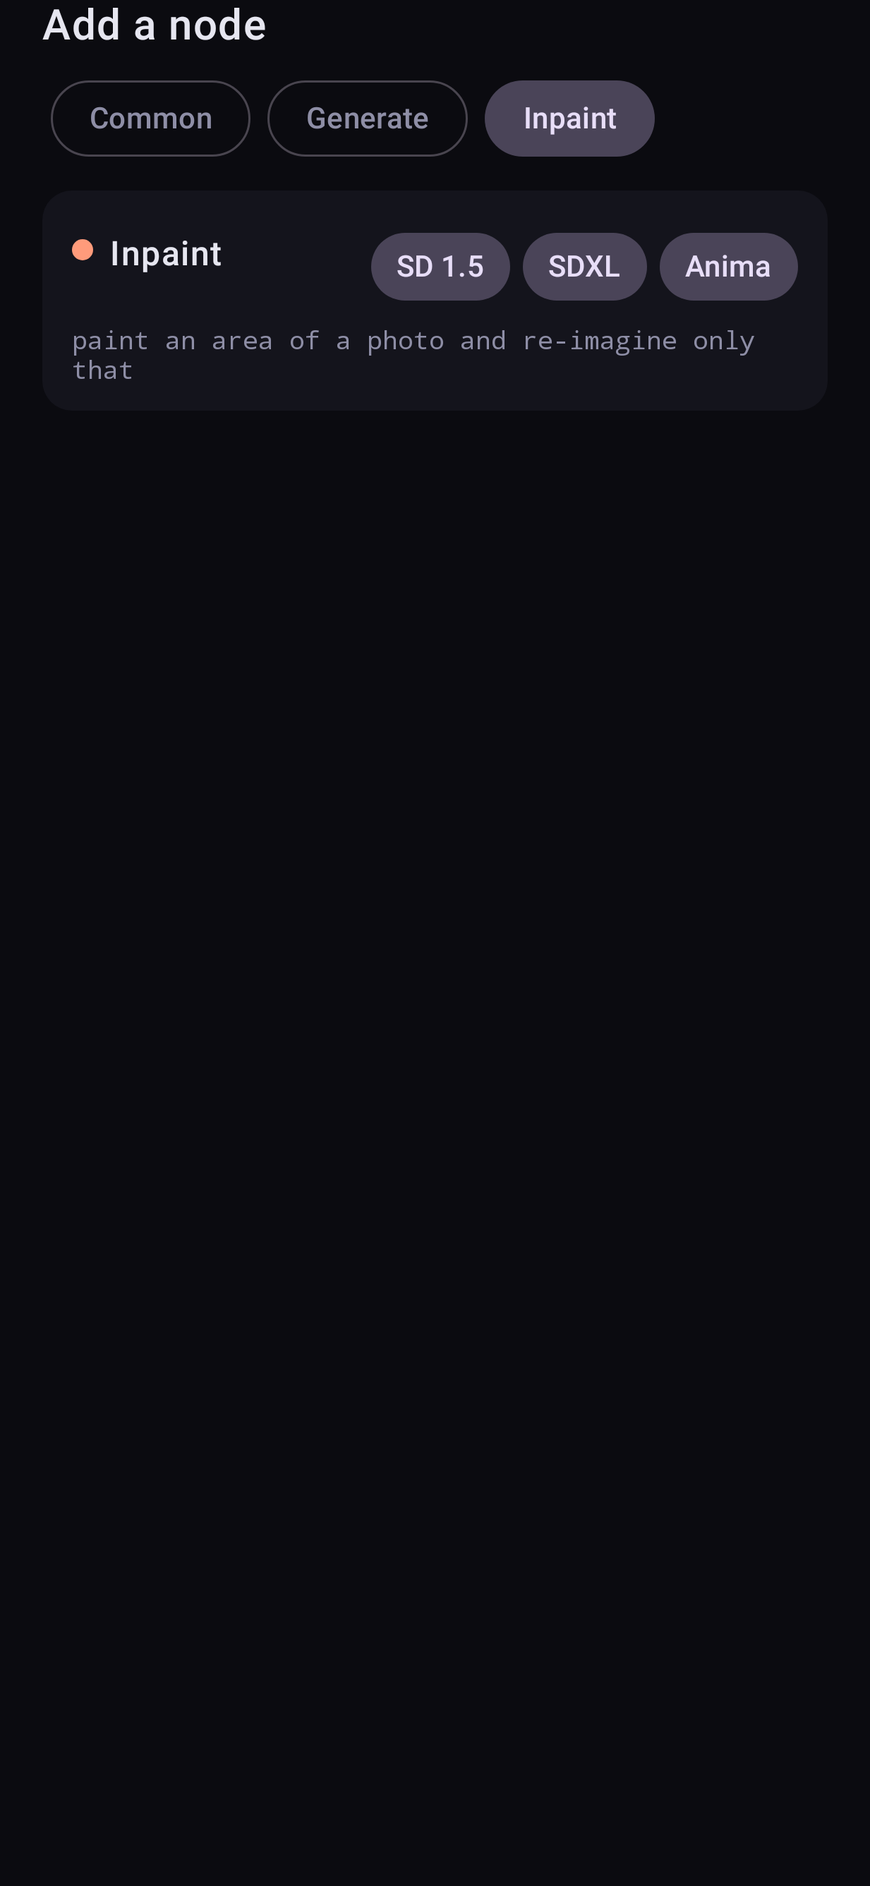
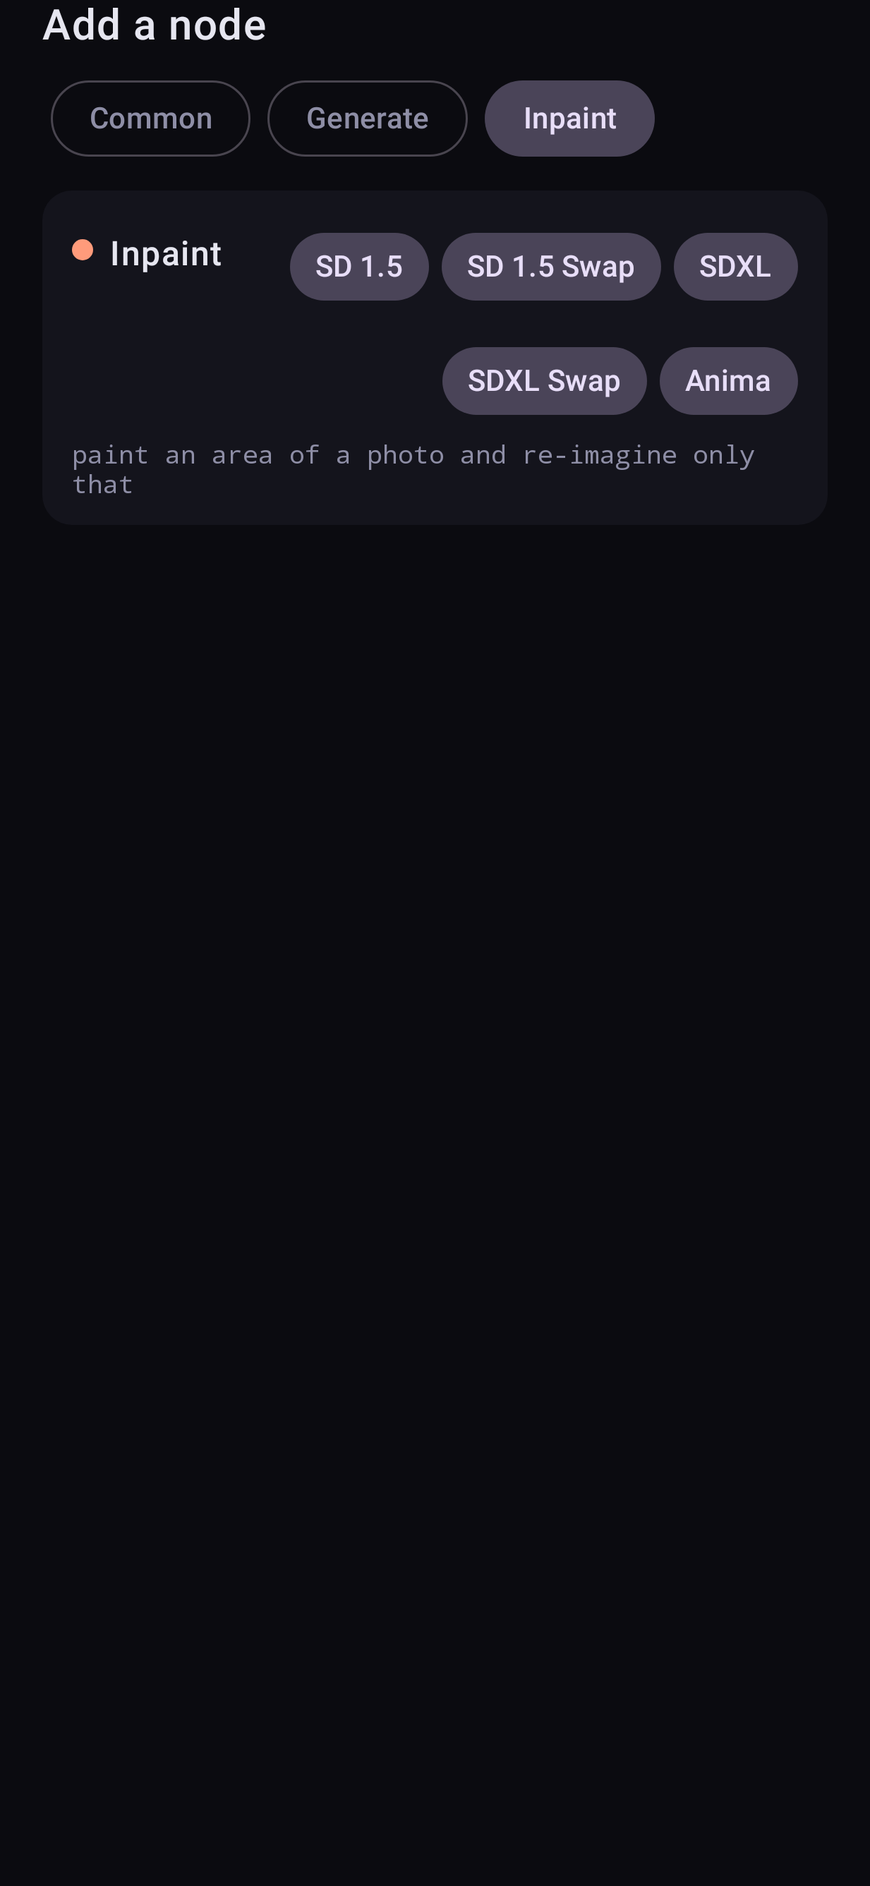
1.6.076: SDXL Swap — LoRA per render, and the template's quantized IO
npuforge 1.0.10's SDXL Swap template (docs there: SDXL-SWAP-TEMPLATE.md)
on the SDXL (231 masked) path.

Backend, patch 018: the template's IO is u16-quantized (timestamp INT_32)
where Mr.J's SDXL UNet is float32, and the step memcpy'd float32 into u16
client buffers. writeNamedInput is dtype-aware (float32 copied, INT_32
cast, u16 quantized, sizes checked) and the output is dequantized unless
float32. A graph with more than six inputs gets 015's writeExtraInputs,
now bound wholly by name with the six standard inputs skipped: LoRA from
lora_dir, ControlNet / IP-Adapter inputs zero (the identity).
PipelineSdxl::beginDenoise sets lora_dir / lora_strength when the UNet has
lora_S and refuses lora_dir otherwise.

App: Family.SDXL_SWAP (an SDXL folder with lora_targets.json), its own
sdxlswap.sample / sdxlswap.inpaint with SDXL's widgets plus the LoRA list,
SDXL's launch type, 1024², --lowram switch and spill-fill. The LoRA pack
reuses SwapInputs (700 targets from the model's own file); TemplateLora
also reads SGM-named keys (input_blocks.{3b+a+1}.1 / output_blocks.{3b+a}.1
/ middle_block.1, one formula for SD 1.5 and SDXL). ControlNet and
IP-Adapter on SDXL Swap are not offered yet.

Tests: SGM vs diffusers naming pack byte-identically; SDXL Swap detection;
palette and sampler counts; palette goldens re-recorded (guide copies too).
Suite: 1083 tests, the 14 DiT import tests fail on disk space only
(C: below their ~11.4 GB need). Not yet run on the phone.
[…]

Changed region(s): [[0.339, 0.1242, 0.9246, 0.2484], [0.4315, 0.2174, 0.4623, 0.2484], [0.2774, 0.2174, 0.3082, 0.2484]]

diff --git a/app/src/main/java/com/abrah/nightmare/CustomModels.kt b/app/src/main/java/com/abrah/nightmare/CustomModels.kt
@@ -295,14 +295,19 @@ object CustomModels {
         // the claim and the requirement at once.
         val spec = customSpec(dir, Config.read(dir), swapIf(dir, found.single()))
         // ⭐ npuforge SDXL: 3x77 tokens (`backend-patches/005`). Read, never assumed.
-        val long = spec.family == Family.SDXL && runCatching {
+        val long = (spec.family == Family.SDXL || spec.family == Family.SDXL_SWAP) && runCatching {
             File(dir, LONG_CONTEXT_FILE).readText().contains(LONG_CONTEXT_231)
         }.getOrDefault(false)
         return if (long) spec.copy(promptTokens = 231) else spec
     }
 
-    private fun swapIf(dir: File, family: Family): Family =
-        if (family == Family.SD15 && File(dir, TemplateLora.TARGETS_FILE).isFile) Family.SD15_SWAP else family
+    private fun swapIf(dir: File, family: Family): Family = when {
+        !File(dir, TemplateLora.TARGETS_FILE).isFile -> family
+        family == Family.SD15 -> Family.SD15_SWAP
+        // ⭐ npuforge 1.0.10+ writes it beside an SDXL Swap UNet that kept a feature.
+        family == Family.SDXL -> Family.SDXL_SWAP
+        else -> family
+    }
 
     /**
      * ⚠ Every family-dependent field comes from [ModelCatalog]'s own constants,
@@ -335,7 +340,7 @@ object CustomModels {
     private fun familyDefaults(family: Family): Defaults = when (family) {
         // The backend's own defaults — neutral, and what every SD archive has
         // always been imported with.
-        Family.SD15, Family.SD15_SWAP, Family.SDXL -> Defaults(
+        Family.SD15, Family.SD15_SWAP, Family.SDXL, Family.SDXL_SWAP -> Defaults(
             ModelCatalog.DEFAULT_SCHEDULER, ModelCatalog.DEFAULT_STEPS, ModelCatalog.DEFAULT_CFG,
         )
         // ⚠ Every published Anima checkpoint is turbo (`euler`, 10, cfg 1 in
@@ -389,6 +394,8 @@ object CustomModels {
             // inputs by probing the UNet at load, so nothing at launch says "Swap".
             Family.SD15_SWAP -> ModelCatalog.SD15_NPU
             Family.SDXL -> ModelCatalog.SDXL_NPU
+            // ⭐ Same `--type` as SDXL: patch 018 probes the UNet for `lora_S` at load.
+            Family.SDXL_SWAP -> ModelCatalog.SDXL_NPU
             Family.ANIMA -> ModelCatalog.ANIMA_NPU
             // ⭐ Detected since 2026-09-21 — [importDit] writes [FLUX2_MARK]
             // and [ZIMAGE_MARK], so these two are reached by a real import.
@@ -405,7 +412,7 @@ object CustomModels {
             when (family) {
                 // ⚠ 512² for Swap and nothing else: the template ships no patches.
                 Family.SD15, Family.SD15_SWAP -> ModelCatalog.SD15_NPU_RES
-                Family.SDXL -> ModelCatalog.SDXL_NPU_RES
+                Family.SDXL, Family.SDXL_SWAP -> ModelCatalog.SDXL_NPU_RES
                 Family.ANIMA -> ModelCatalog.ANIMA_NPU_RES
                 Family.FLUX2, Family.ZIMAGE, Family.QWEN21, Family.KREA2 -> ModelCatalog.DIT_RES
             },
@@ -414,6 +421,7 @@ object CustomModels {
             Family.SD15 -> ModelCatalog.SD15_REQUIRED
             Family.SD15_SWAP -> ModelCatalog.SD15_SWAP_REQUIRED
             Family.SDXL -> ModelCatalog.SDXL_REQUIRED
+            Family.SDXL_SWAP -> ModelCatalog.SDXL_SWAP_REQUIRED
             Family.ANIMA -> ModelCatalog.ANIMA_REQUIRED
             // ⚠ The weights by the name actually on disk — a `.gguf` import
             // has no `dit.safetensors`, and would read as incomplete forever.
@@ -435,7 +443,7 @@ object CustomModels {
             Family.SD15, Family.SD15_SWAP -> false
             // ⚠ The 9B is `lowram` (te=disk) like its built-in; 4B is not.
             Family.FLUX2 -> klein9b
-            Family.SDXL, Family.ANIMA, Family.ZIMAGE -> true
+            Family.SDXL, Family.SDXL_SWAP, Family.ANIMA, Family.ZIMAGE -> true
             // ⚠ The backend runs Qwen `all=disk` whatever this says (013).
             Family.QWEN21 -> false
             // ⚠ Same as Qwen: the backend runs Krea 2 `all=disk` (014).

diff --git a/app/src/main/java/com/abrah/nightmare/Fused.kt b/app/src/main/java/com/abrah/nightmare/Fused.kt
@@ -498,6 +498,10 @@ class SdSampler(
          */
         val SD15_SWAP_INPAINT = SdSampler("sd15swap.inpaint", Family.SD15_SWAP, inpaint = true)
         val SDXL = SdSampler("sdxl.sample", Family.SDXL, inpaint = false)
+        /** ⭐ SDXL Swap — LoRA per render (ControlNet / IP-Adapter inputs stay zero, [Family.SDXL_SWAP]). */
+        val SDXL_SWAP = SdSampler("sdxlswap.sample", Family.SDXL_SWAP, inpaint = false)
+        /** ⭐ SDXL Swap inpaint — SDXL's own route: masked img2img with the latent blend, LoRA kept. */
+        val SDXL_SWAP_INPAINT = SdSampler("sdxlswap.inpaint", Family.SDXL_SWAP, inpaint = true)
         val SD15_INPAINT = SdSampler("sd15.inpaint", Family.SD15, inpaint = true)
         val SDXL_INPAINT = SdSampler("sdxl.inpaint", Family.SDXL, inpaint = true)
         val ANIMA = SdSampler("anima.sample", Family.ANIMA, inpaint = false)
@@ -544,8 +548,8 @@ class SdSampler(
          * until the engine's behaviour is understood. `notes/PROGRESS.md`.
          */
         val ALL = listOf(
-            SD15, SD15_SWAP, SDXL, ANIMA, FLUX2, ZIMAGE, QWEN21, KREA2,
-            SD15_INPAINT, SD15_SWAP_INPAINT, SDXL_INPAINT, ANIMA_INPAINT,
+            SD15, SD15_SWAP, SDXL, SDXL_SWAP, ANIMA, FLUX2, ZIMAGE, QWEN21, KREA2,
+            SD15_INPAINT, SD15_SWAP_INPAINT, SDXL_INPAINT, SDXL_SWAP_INPAINT, ANIMA_INPAINT,
         )
 
         /**
@@ -645,6 +649,8 @@ class SdSampler(
     override val widgets get() = when {
         family.dit -> ditWidgets()
         family == Family.SD15_SWAP -> baseWidgets() + lorasWidget() + swapWidgets()
+        // ⭐ LoRA only: SDXL ControlNet and IP-Adapter models do not exist on the phone yet.
+        family == Family.SDXL_SWAP -> baseWidgets() + lorasWidget()
         else -> baseWidgets()
     }.let { ws ->
         if (!inpaint) ws else {
@@ -1024,7 +1030,11 @@ class SdSampler(
             ?.takeIf { ModelCatalog.aspectTarget(it, Res(w, h)) != null }
         // ⭐⭐ SD 1.5 Swap: the LoRA pack and the ControlNet hint, once per run and
         // before any backend call — a missing picture should stop the run here.
-        val template = if (family == Family.SD15_SWAP) swapInputs(ctx, node, p, inputs) else null
+        val template = when (family) {
+            Family.SD15_SWAP -> swapInputs(ctx, node, p, inputs)
+            Family.SDXL_SWAP -> sdxlSwapInputs(ctx, node, p)
+            else -> null
+        }
 
         // ⚠ First, because it is the cheapest thing that can fail: a backend
         // that is not up says so here rather than after a 200 ms VAE encode.
@@ -1523,6 +1533,23 @@ class SdSampler(
      * ([SwapInputs.Frame]) so the hint lines up with the base — the user's call,
      * 2026-09-29. With ControlNet at `none` none of this is read.
      */
+    /**
+     * ⭐ SDXL Swap's per-render input: the LoRA pack only ([SwapInputs.resolve] with no
+     * ControlNet and no reference). The pack follows the model's own `lora_targets.json`
+     * (700 targets) and is cached per LoRA set like SD 1.5 Swap's ([SwapInputs.packDir]).
+     */
+    private suspend fun sdxlSwapInputs(ctx: NodeCtx, node: Node, p: Map<String, String>): Ops.TemplateInputs {
+        if (LoraSpec.parse(p[LORAS]).isEmpty()) return Ops.TemplateInputs()
+        val android = ctx.android
+            ?: throw IllegalStateException("SDXL Swap needs an Android context on this host")
+        val spec = ModelCatalog.byId(p["model"].orEmpty())
+            ?: throw IllegalStateException("node \"${node.id}\": model \"${p["model"]}\" is not installed")
+        val loras = lorasFor(ctx, p[LORAS])
+        return kotlinx.coroutines.withContext(kotlinx.coroutines.Dispatchers.Default) {
+            SwapInputs.resolve(android, spec, loras, SwapInputs.NONE, 1.0, null, null, say = ctx.say)
+        }
+    }
+
     private suspend fun swapInputs(
         ctx: NodeCtx,
         node: Node,

diff --git a/app/src/main/java/com/abrah/nightmare/TemplateLora.kt b/app/src/main/java/com/abrah/nightmare/TemplateLora.kt
@@ -108,7 +108,7 @@ object TemplateLora {
             val dout = uShape[0].toInt()
             require(din == t.din && dout == t.dout && uShape[1].toInt() == r) {
                 "${t.name}: LoRA shape [$r, $din] / [$dout, ${uShape[1]}] does not fit the " +
-                    "template's [${t.din} -> ${t.dout}] -- not an SD 1.5 LoRA?"
+                    "template's [${t.din} -> ${t.dout}] -- a LoRA for another model family?"
             }
             loraRank = maxOf(loraRank, r)
             var d = st.floats(down)            // [rk, din]
@@ -177,7 +177,7 @@ object TemplateLora {
                     val din = dShape.drop(1).fold(1L) { a, b -> a * b }.toInt()
                     require(din == t.din && uShape[0].toInt() == t.dout && uShape[1].toInt() == r) {
                         "${t.name}: ${loras[li].first.name} does not fit the template's " +
-                            "[${t.din} -> ${t.dout}] -- not an SD 1.5 LoRA?"
+                            "[${t.din} -> ${t.dout}] -- a LoRA for another model family?"
                     }
                     val alpha = alphaKey?.let { st.floats(it)[0].toDouble() } ?: r.toDouble()
                     val scale = (alpha / r * loras[li].second).toFloat()
@@ -333,10 +333,37 @@ object TemplateLora {
     }
 
     /** (down, up, alpha?) keys for a target, kohya first, then diffusers/PEFT. */
+    /**
+     * ⭐ The LDM / SGM block path of a diffusers target, or null: many SDXL LoRAs (kohya on SGM
+     * checkpoints) name `lora_unet_input_blocks_4_1_transformer_blocks_0_attn1_to_q` where the
+     * diffusers form is `..._down_blocks_1_attentions_0_...`. One formula holds for SD 1.5 and
+     * SDXL: down block b, attention a -> input_blocks.{3b+a+1}.1; up -> output_blocks.{3b+a}.1;
+     * mid -> middle_block.1. Mirrors npuforge's SDXL packer (both naming forms, rel 1.9e-6).
+     */
+    internal fun sgmPath(name: String): String? {
+        val m = modulePath(name)
+        Regex("""^down_blocks\.(\d+)\.attentions\.(\d+)\.(.+)$""").find(m)?.let { r ->
+            val (b, a, rest) = r.destructured
+            return "input_blocks.${3 * b.toInt() + a.toInt() + 1}.1.$rest"
+        }
+        Regex("""^up_blocks\.(\d+)\.attentions\.(\d+)\.(.+)$""").find(m)?.let { r ->
+            val (b, a, rest) = r.destructured
+            return "output_blocks.${3 * b.toInt() + a.toInt()}.1.$rest"
+        }
+        return if (m.startsWith("mid_block.attentions.0.")) "middle_block.1." + m.removePrefix("mid_block.attentions.0.")
+        else null
+    }
+
     private fun findPair(name: String, keys: Set<String>): Triple<String, String, String?>? {
         val k = kohyaPrefix(name)
         if ("$k.lora_down.weight" in keys && "$k.lora_up.weight" in keys) {
             return Triple("$k.lora_down.weight", "$k.lora_up.weight", "$k.alpha".takeIf { it in keys })
+        }
+        sgmPath(name)?.let { sgm ->
+            val s = "lora_unet_" + sgm.replace('.', '_')
+            if ("$s.lora_down.weight" in keys && "$s.lora_up.weight" in keys) {
+                return Triple("$s.lora_down.weight", "$s.lora_up.weight", "$s.alpha".takeIf { it in keys })
+            }
         }
         val m = modulePath(name)
         for (p in listOf("unet.$m", "base_model.model.$m")) {

diff --git a/app/src/test/java/com/abrah/nightmare/TemplateLoraTest.kt b/app/src/test/java/com/abrah/nightmare/TemplateLoraTest.kt
@@ -357,4 +357,52 @@ class TemplateLoraTest {
             assertArrayEquals(floatArrayOf(1f, -2f), st.floats("b.weight"), 0f)
         }
     }
+
+    /** ⭐ SDXL LoRAs often carry LDM/SGM block names; one formula covers SD 1.5 and SDXL. */
+    @Test
+    fun sgmPathFollowsLdmBlockNumbering() {
+        assertEquals("input_blocks.4.1.transformer_blocks.0.attn1.to_q",
+            TemplateLora.sgmPath("down_blocks.1.attentions.0.transformer_blocks.0.attn1.q"))
+        assertEquals("input_blocks.8.1.transformer_blocks.9.attn2.to_out.0",
+            TemplateLora.sgmPath("down_blocks.2.attentions.1.transformer_blocks.9.attn2.out"))
+        assertEquals("input_blocks.2.1.transformer_blocks.0.ff.net.0.proj",
+            TemplateLora.sgmPath("down_blocks.0.attentions.1.transformer_blocks.0.ff.proj"))
+        assertEquals("output_blocks.2.1.transformer_blocks.0.attn1.to_k",
+            TemplateLora.sgmPath("up_blocks.0.attentions.2.transformer_blocks.0.attn1.k"))
+        assertEquals("output_blocks.3.1.transformer_blocks.1.ff.net.2",
+            TemplateLora.sgmPath("up_blocks.1.attentions.0.transformer_blocks.1.ff.out"))
+        assertEquals("middle_block.1.transformer_blocks.7.attn1.to_v",
+            TemplateLora.sgmPath("mid_block.attentions.0.transformer_blocks.7.attn1.v"))
+    }
+
+    /** The same LoRA under SGM names packs to the very bytes it packs to under diffusers names. */
+    @Test
+    fun sgmNamedLoraPacksLikeDiffusersNamed() {
+        val rnd = Random(11)
+        val targets = TemplateLora.readTargets(targetsJson)
+        val r = 4
+        fun tensors(sgm: Boolean) = targets.list.flatMap { t ->
+            val k = if (sgm) "lora_unet_" + TemplateLora.sgmPath(t.name)!!.replace('.', '_')
+                else TemplateLora.kohyaPrefix(t.name)
+            listOf(
+                Triple("$k.lora_down.weight", listOf(r, t.din), FloatArray(r * t.din) { rnd.nextFloat() - 0.5f }),
+                Triple("$k.lora_up.weight", listOf(t.dout, r), FloatArray(t.dout * r) { rnd.nextFloat() - 0.5f }),
+                Triple("$k.alpha", emptyList(), floatArrayOf(2f)),
+            )
+        }
+        val diffusers = tensors(sgm = false)
+        // the SAME values, renamed
+        val sgmNames = tensors(sgm = true).map { it.first }
+        val sgm = diffusers.mapIndexed { i, (_, shape, data) -> Triple(sgmNames[i], shape, data) }
+        val fd = tmp.newFile("d.safetensors").also { writeSafetensors(it, diffusers, f16 = false) }
+        val fs = tmp.newFile("s.safetensors").also { writeSafetensors(it, sgm, f16 = false) }
+        val od = tmp.newFolder("od"); val os = tmp.newFolder("os")
+        val pd = TemplateLora.pack(fd, targets, od)
+        val ps = TemplateLora.pack(fs, targets, os)
+        assertEquals(targets.list.size, pd.matched)
+        assertEquals(pd.matched, ps.matched)
+        val names = od.list()!!.sorted()
+        assertEquals(names, os.list()!!.sorted())
+        for (n in names) assertArrayEquals(n, File(od, n).readBytes(), File(os, n).readBytes())
+    }
 }

diff --git a/app/src/main/java/com/abrah/nightmare/ModelCatalog.kt b/app/src/main/java/com/abrah/nightmare/ModelCatalog.kt
@@ -72,6 +72,18 @@ enum class Family(
      */
     SD15_SWAP("SD 1.5 Swap", GP_SD15, GP_SD15_NEG, "sd15swap"),
     SDXL("SDXL", GP_SDXL, GP_SDXL_NEG, "sdxl"),
+    /**
+     * ⭐⭐ **SDXL Swap** — an SDXL checkpoint converted by npuforge (1.0.10+) into
+     * the SDXL Swap TEMPLATE UNet (`../npuforge/docs/SDXL-SWAP-TEMPLATE.md`): its
+     * LoRA (700 rank-64 targets), ControlNet residuals and IP-Adapter K/V are
+     * graph inputs. **This app feeds the LoRA** (`backend-patches/018` binds them
+     * by name on the 231-masked SDXL path); ControlNet and IP-Adapter inputs stay
+     * zero — the identity — until their SDXL models exist on the phone.
+     * Same launch type, prompts and 1024² as [SDXL]; its own family for the
+     * [SD15_SWAP] reason (the LoRA widget is per node type). Recognised by
+     * [TemplateLora.TARGETS_FILE] beside an SDXL UNet ([CustomModels]).
+     */
+    SDXL_SWAP("SDXL Swap", GP_SDXL, GP_SDXL_NEG, "sdxlswap"),
     ANIMA("Anima", GP_ANIMA, GP_ANIMA_NEG, "anima"),
     FLUX2("FLUX.2", GP_DIT, GP_DIT_NEG, "flux2", dit = true, edit = true),
     ZIMAGE("Z-Image", GP_DIT, GP_DIT_NEG, "zimage", dit = true),
@@ -687,7 +699,7 @@ data class ModelSpec(
      * an aspect chip is the truth.
      */
     val fixedCanvas: Boolean
-        get() = family == Family.SDXL || family == Family.ANIMA
+        get() = family == Family.SDXL || family == Family.SDXL_SWAP || family == Family.ANIMA
 
     /**
      * ⭐⭐ The patch file [res] needs, or null when it needs none.
@@ -1221,6 +1233,9 @@ object ModelCatalog {
         "clip_2.mnn", "clip_2.mnn.weight", "pos_emb_2.bin", "token_emb_2.bin",
         "unet.bin", "vae_decoder.bin", "vae_encoder.bin",
     )
+
+    /** ⭐ SDXL Swap: SDXL's files plus the LoRA target list the packer cannot do without. */
+    val SDXL_SWAP_REQUIRED = SDXL_REQUIRED + TemplateLora.TARGETS_FILE
 
     /**
      * ⭐ What `--type anima` needs — the backend's own list (`main.cpp`,

diff --git a/app/src/test/java/com/abrah/nightmare/canvas/PaletteTest.kt b/app/src/test/java/com/abrah/nightmare/canvas/PaletteTest.kt
@@ -71,7 +71,7 @@ class PaletteTest {
         // the engine honours the mask and then regenerates nothing inside it
         // (measured 2026-09-20, `SdSampler.ALL`). This list is what guards
         // that decision — registering it silently would show up here first.
-        assertEquals(listOf("SD 1.5", "SD 1.5 Swap", "SDXL", "Anima"), inpaint.first().map { it.paletteVariant })
+        assertEquals(listOf("SD 1.5", "SD 1.5 Swap", "SDXL", "SDXL Swap", "Anima"), inpaint.first().map { it.paletteVariant })
         assertFalse(sections.getValue("generate").flatten().any { it.name.endsWith(".inpaint") })
     }
 
@@ -79,7 +79,7 @@ class PaletteTest {
         val generate = sections.getValue("generate")
         val sd = generate.single { card -> card.any { it.name == SdSampler.SDXL.name } }
         assertEquals(
-            listOf("sd15.sample", "sd15swap.sample", "sdxl.sample", "anima.sample", "flux2.sample", "zimage.sample", "qwen21.sample", "krea2.sample"),
+            listOf("sd15.sample", "sd15swap.sample", "sdxl.sample", "sdxlswap.sample", "anima.sample", "flux2.sample", "zimage.sample", "qwen21.sample", "krea2.sample"),
             sd.map { it.name },
         )
     }

diff --git a/app/src/main/java/com/abrah/nightmare/ui/ModelsScreen.kt b/app/src/main/java/com/abrah/nightmare/ui/ModelsScreen.kt
@@ -588,6 +588,10 @@ fun ModelsScreen(
                             Family.SD15_SWAP -> "About 1.3 GB each. LoRAs and ControlNet are " +
                                 "chosen per render, 512×512 only. Convert your own SD 1.5 " +
                                 "checkpoint in npuforge as SD1.5 Swap and import the zip here."
+                            // ⭐ No defaults yet: only the user's own conversions.
+                            Family.SDXL_SWAP -> "LoRAs are chosen per render, 1024×1024. Convert " +
+                                "your own SDXL checkpoint in npuforge (1.0.10 or newer) as SDXL Swap " +
+                                "with LoRA ticked, and import the zip here."
                             // ⚠ Measured 2026-09-16 on an 11.4 GB phone: 6.4 s a
                             // step, and killed by Android while other apps were
                             // in use. Said here, before 4 GB is downloaded.

diff --git a/app/src/test/java/com/abrah/nightmare/CustomModelsTest.kt b/app/src/test/java/com/abrah/nightmare/CustomModelsTest.kt
@@ -86,6 +86,17 @@ class CustomModelsTest {
         assertFalse(spec.lowram)
     }
 
+    /** ⭐ SDXL + the target list (npuforge 1.0.10 with a feature kept) is SDXL Swap: SDXL's launch. */
+    @Test
+    fun sdxlSwapIsRecognisedFromItsTargetList() {
+        onDisk("mine", ModelCatalog.SDXL_SWAP_REQUIRED)
+        val spec = CustomModels.scan(ctx).single()
+        assertEquals(Family.SDXL_SWAP, spec.family)
+        assertEquals(ModelCatalog.SDXL_NPU, spec.backendType)
+        assertEquals(ModelCatalog.SDXL_NPU_RES, spec.native)
+        assertTrue("SDXL Swap follows SDXL's --lowram", spec.lowram)
+    }
+
     @Test
     fun sdxlIsRecognisedFromItsSecondEncoder() {
         onDisk("mine", ModelCatalog.SDXL_REQUIRED)

diff --git a/app/src/test/java/com/abrah/nightmare/canvas/VideoGraphTest.kt b/app/src/test/java/com/abrah/nightmare/canvas/VideoGraphTest.kt
@@ -108,9 +108,12 @@ class VideoGraphTest {
         // `sd15swap.inpaint` (its latent-blend inpaint), the same day.
         assertTrue(isSampler("sd15swap.sample"))
         assertTrue(isSampler("sd15swap.inpaint"))
-        assertEquals(13, SAMPLER_TYPES.size)
-        assertEquals(12, IMAGE_SAMPLER_TYPES.size)
-        assertEquals(4, INPAINT_TYPES.size)
+        // 2026-10-03: `sdxlswap.sample` / `sdxlswap.inpaint` (SDXL Swap, LoRA per render).
+        assertTrue(isSampler("sdxlswap.sample"))
+        assertTrue(isSampler("sdxlswap.inpaint"))
+        assertEquals(15, SAMPLER_TYPES.size)
+        assertEquals(14, IMAGE_SAMPLER_TYPES.size)
+        assertEquals(5, INPAINT_TYPES.size)
     }
 
     @Test

diff --git a/app/src/main/java/com/abrah/nightmare/PromptTokens.kt b/app/src/main/java/com/abrah/nightmare/PromptTokens.kt
@@ -186,7 +186,7 @@ object PromptTokens {
      * vocabulary. No counter beats a CLIP number that means nothing there.
      */
     private fun familyBudget(f: Family): Budget? = when (f) {
-        Family.SD15, Family.SD15_SWAP, Family.SDXL -> Budget.CLIP
+        Family.SD15, Family.SD15_SWAP, Family.SDXL, Family.SDXL_SWAP -> Budget.CLIP
         Family.ANIMA -> Budget.ANIMA
         Family.FLUX2, Family.ZIMAGE, Family.QWEN21, Family.KREA2 -> null
     }

diff --git a/app/src/main/java/com/abrah/nightmare/SpillFill.kt b/app/src/main/java/com/abrah/nightmare/SpillFill.kt
@@ -39,7 +39,7 @@ object SpillFill {
 
     /** The backend's env var for this family's group, or null when it has none. */
     fun envFor(family: Family?): String? = when (family) {
-        Family.SDXL -> "LOCALDREAM_SDXL_SPILL_FILL_BYTES"
+        Family.SDXL, Family.SDXL_SWAP -> "LOCALDREAM_SDXL_SPILL_FILL_BYTES"
         Family.ANIMA -> "LOCALDREAM_ANIMA_SPILL_FILL_BYTES"
         else -> null
     }

diff --git a/app/src/main/java/com/abrah/nightmare/SwapInputs.kt b/app/src/main/java/com/abrah/nightmare/SwapInputs.kt
@@ -210,7 +210,7 @@ object SwapInputs {
                 dir.deleteRecursively()
                 throw IllegalStateException(
                     "no layer of this model matched ${loras.joinToString { it.first.name }} — " +
-                        "is it an SD 1.5 LoRA?",
+                        "is it a LoRA for this model's family (SD 1.5 or SDXL)?",
                 )
             }
         }
